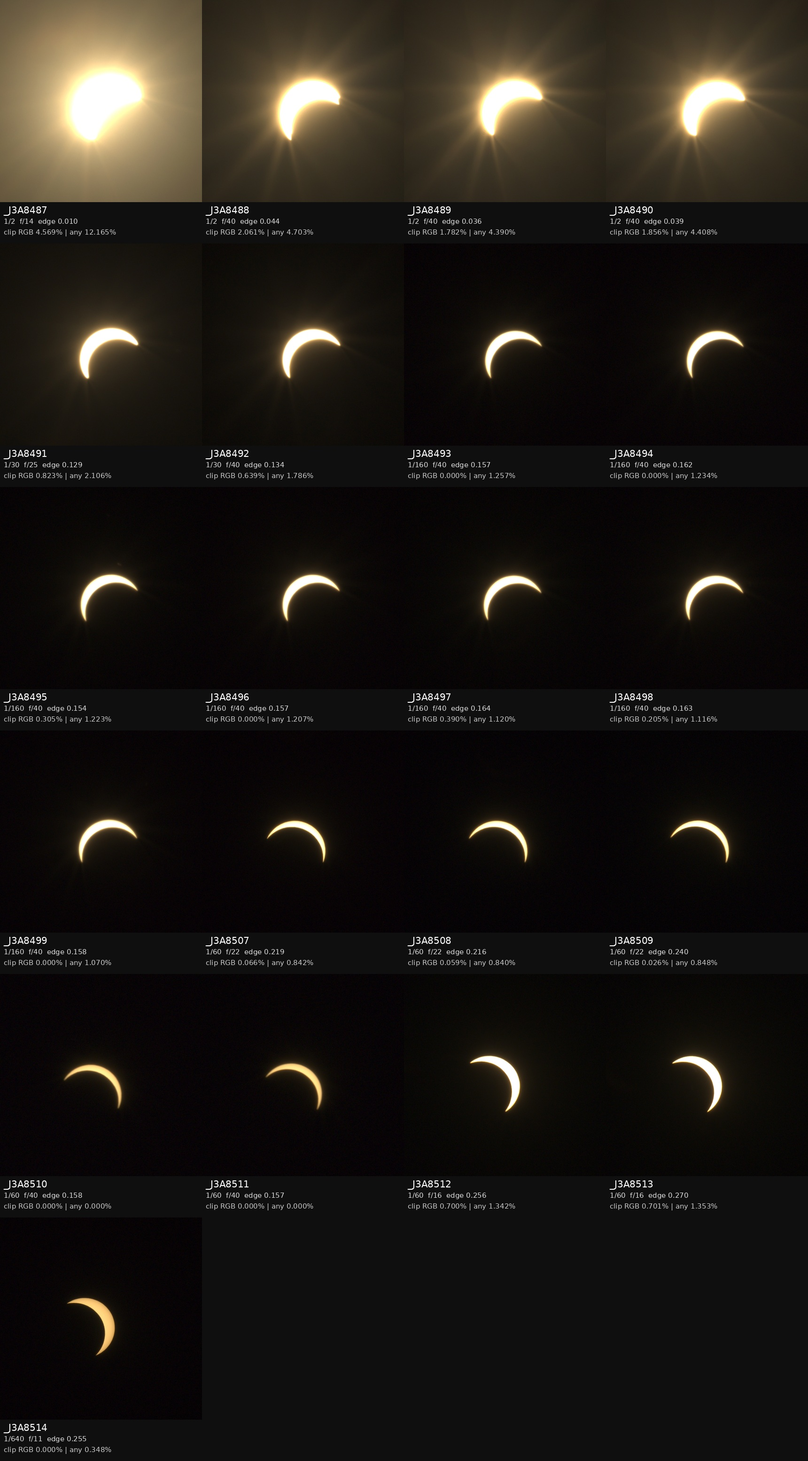
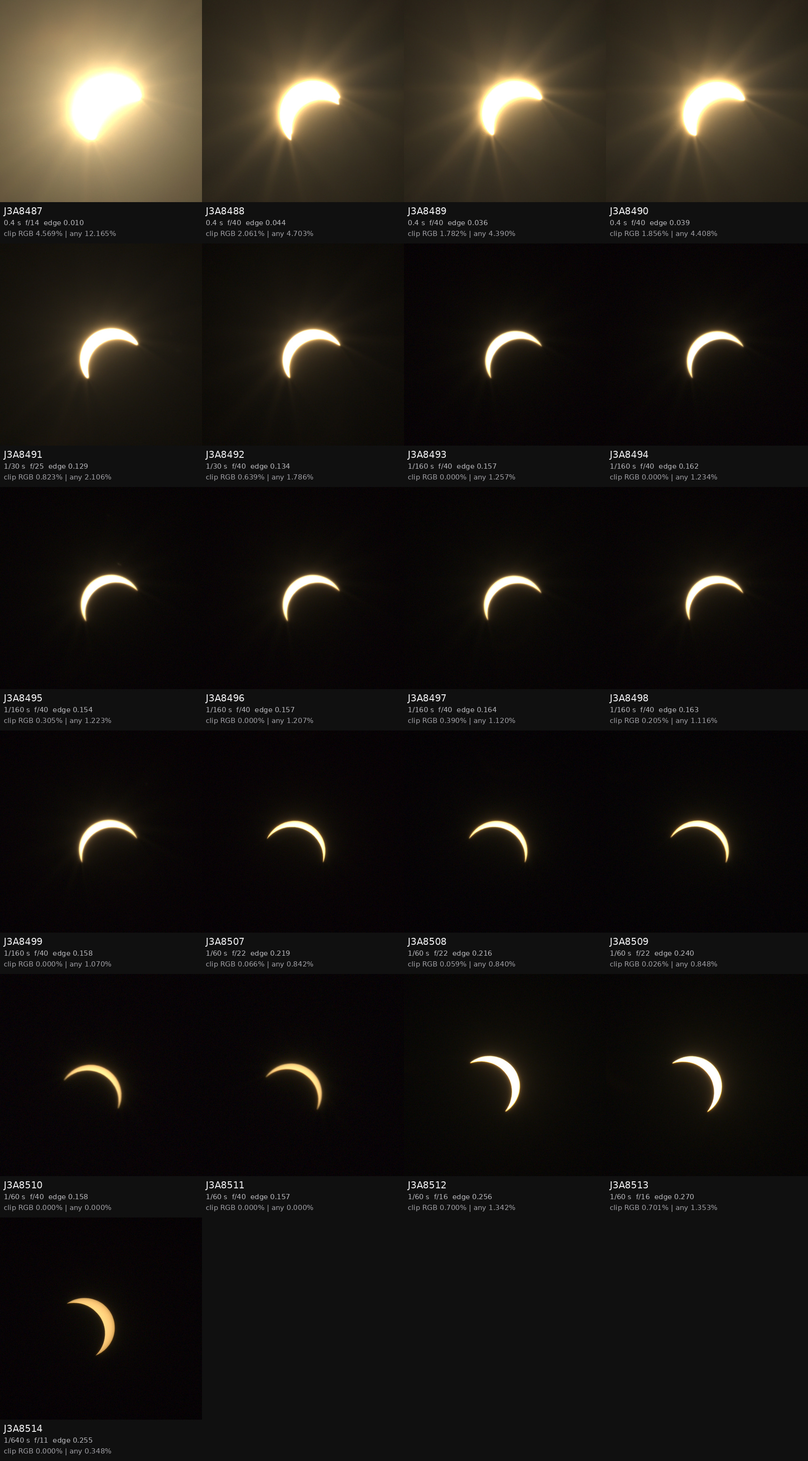
regen

diff --git a/src/solar_eclipse_analysis/render.py b/src/solar_eclipse_analysis/render.py
@@ -297,6 +297,170 @@ def render_details(
     return created
 
 
+def open_rgb(path: Path) -> Image.Image:
+    if not path.is_file():
+        raise FileNotFoundError(f"Required image not found: {path}")
+    with Image.open(path) as image:
+        return image.convert("RGB")
+
+
+def render_crop_contact(
+    raw_dir: Path,
+    crops_dir: Path,
+    renders_dir: Path,
+    metrics: dict[str, DataRow],
+) -> Path:
+    names = sorted(metrics)
+    columns = 4
+    tile_width, image_height, label_height = 430, 430, 88
+    rows = math.ceil(len(names) / columns)
+    canvas = Image.new(
+        "RGB",
+        (columns * tile_width, rows * (image_height + label_height)),
+        (16, 16, 16),
+    )
+    title_font = dejavu_font(20)
+    detail_font = dejavu_font(15)
+    for index, name in enumerate(names):
+        row = metrics[name]
+        image = open_rgb(crops_dir / f"{Path(name).stem}.jpg")
+        image = image.resize((tile_width, image_height), Image.Resampling.LANCZOS)
+        x = index % columns * tile_width
+        y = index // columns * (image_height + label_height)
+        canvas.paste(image, (x, y))
+        draw = ImageDraw.Draw(canvas)
+        draw.text(
+            (x + 8, y + image_height + 7),
+            Path(name).stem.removeprefix("_"),
+            font=title_font,
+            fill=(238, 238, 240),
+        )
+        draw.text(
+            (x + 8, y + image_height + 35),
+            "  ".join((
+                format_shutter(float(row["shutter_s"])),
+                f"f/{float(row['aperture']):g}",
+                f"edge {float(row['edge_p995']):.3f}",
+            )),
+            font=detail_font,
+            fill=(185, 185, 190),
+        )
+        draw.text(
+            (x + 8, y + image_height + 58),
+            " | ".join((
+                f"clip RGB {float(row['clip_all_pct']):.3f}%",
+                f"any {float(row['clip_any_pct']):.3f}%",
+            )),
+            font=detail_font,
+            fill=(160, 160, 166),
+        )
+    output = renders_dir / "all_sun_crops_contact.jpg"
+    metadata = ImageMetadata(
+        "Contact sheet of all solar eclipse analysis crops",
+        tuple(require_raw(raw_dir, name) for name in names),
+    )
+    save_jpeg(canvas, output, metadata, quality=94)
+    return output
+
+
+def render_montage(
+    raw_dir: Path,
+    crops_dir: Path,
+    renders_dir: Path,
+    metrics: dict[str, DataRow],
+) -> Path:
+    names = sorted(metrics)
+    if len(names) < 2:
+        raise RuntimeError("At least two metric rows required for the montage")
+    width, height = 2800, 1050
+    canvas = Image.new("RGB", (width, height), (2, 2, 4))
+    draw = ImageDraw.Draw(canvas)
+    title_font = dejavu_font(24)
+    label_font = dejavu_font(16)
+    for index, name in enumerate(names):
+        image = open_rgb(crops_dir / f"{Path(name).stem}.jpg")
+        grayscale = np.asarray(image.convert("L"), dtype=np.uint8)
+        y_values, x_values = np.where(grayscale > 22)
+        if x_values.size:
+            image = image.crop((
+                max(int(x_values.min()) - 25, 0),
+                max(int(y_values.min()) - 25, 0),
+                min(int(x_values.max()) + 26, image.width),
+                min(int(y_values.max()) + 26, image.height),
+            ))
+        image.thumbnail((155, 155), Image.Resampling.LANCZOS)
+        progress = index / (len(names) - 1)
+        center_x = 90 + progress * (width - 180)
+        center_y = 500 - 250 * math.sin(progress * math.pi)
+        canvas.paste(
+            image,
+            (round(center_x - image.width / 2), round(center_y - image.height / 2)),
+        )
+        draw.text(
+            (round(center_x - 44), round(center_y + 95)),
+            Path(name).stem.replace("_J3A", ""),
+            fill=(160, 160, 170),
+            font=label_font,
+        )
+    draw.text(
+        (70, 60),
+        "Eclipse progression - RAW sequence",
+        fill=(235, 235, 240),
+        font=title_font,
+    )
+    draw.text(
+        (70, 94),
+        "Centered montage; positions are compositional, not the physical solar trajectory.",
+        fill=(145, 145, 155),
+        font=label_font,
+    )
+    output = renders_dir / "raw_eclipse_progression_montage.png"
+    metadata = ImageMetadata(
+        "Centered montage of the solar eclipse RAW sequence",
+        tuple(require_raw(raw_dir, name) for name in names),
+    )
+    save_png(canvas, output, metadata, compress_level=3)
+    return output
+
+
+def render_contact(
+    raw_dir: Path,
+    renders_dir: Path,
+    render_paths: list[Path],
+    montage_path: Path,
+    names: list[str],
+) -> Path:
+    paths = [*render_paths, montage_path]
+    columns = 2
+    tile_width, image_height, label_height = 600, 410, 60
+    rows = math.ceil(len(paths) / columns)
+    canvas = Image.new(
+        "RGB",
+        (columns * tile_width, rows * (image_height + label_height)),
+        (16, 16, 16),
+    )
+    label_font = dejavu_font(20)
+    for index, path in enumerate(paths):
+        image = open_rgb(path)
+        image.thumbnail((tile_width, image_height), Image.Resampling.LANCZOS)
+        x = index % columns * tile_width
+        y = index // columns * (image_height + label_height)
+        canvas.paste(image, (x + (tile_width - image.width) // 2, y))
+        ImageDraw.Draw(canvas).text(
+            (x + 8, y + image_height + 12),
+            path.name,
+            font=label_font,
+            fill=(238, 238, 240),
+        )
+    output = renders_dir / "render_contact.jpg"
+    metadata = ImageMetadata(
+        "Contact sheet of solar eclipse analysis renders",
+        tuple(require_raw(raw_dir, name) for name in names),
+    )
+    save_jpeg(canvas, output, metadata, quality=94)
+    return output
+
+
 def progression_tile(rgb: Rgb16, metrics: DataRow) -> Image.Image:
     crop, _, _ = crop_around(
         rgb,
@@ -444,14 +608,21 @@ def render_progression(
 def render_all(
     raw_dir: Path,
     metrics_rows: list[DataRow],
+    crops_dir: Path,
     renders_dir: Path,
     final_dir: Path,
     decoder: RawDecoder,
 ) -> list[Path]:
     renders_dir.mkdir(parents=True, exist_ok=True)
     metrics = {str(row["file"]): row for row in metrics_rows}
-    created = render_long_exposure(raw_dir, renders_dir, decoder)
-    created.append(render_stack(raw_dir, renders_dir, metrics, decoder))
-    created.extend(render_details(raw_dir, renders_dir, metrics, decoder))
+    analysis_renders = render_long_exposure(raw_dir, renders_dir, decoder)
+    analysis_renders.append(render_stack(raw_dir, renders_dir, metrics, decoder))
+    analysis_renders.extend(render_details(raw_dir, renders_dir, metrics, decoder))
+    crop_contact = render_crop_contact(raw_dir, crops_dir, renders_dir, metrics)
+    montage = render_montage(raw_dir, crops_dir, renders_dir, metrics)
+    render_contact_path = render_contact(
+        raw_dir, renders_dir, analysis_renders, montage, sorted(metrics)
+    )
+    created = [*analysis_renders, crop_contact, montage, render_contact_path]
     created.extend(render_progression(raw_dir, final_dir, metrics, decoder))
     return created

diff --git a/src/solar_eclipse_analysis/cli.py b/src/solar_eclipse_analysis/cli.py
@@ -145,6 +145,7 @@ def run(arguments: CliArguments) -> None:
         created = render_all(
             paths.raw,
             analysis_rows,
+            paths.crops,
             paths.renders,
             paths.final,
             decoder,
